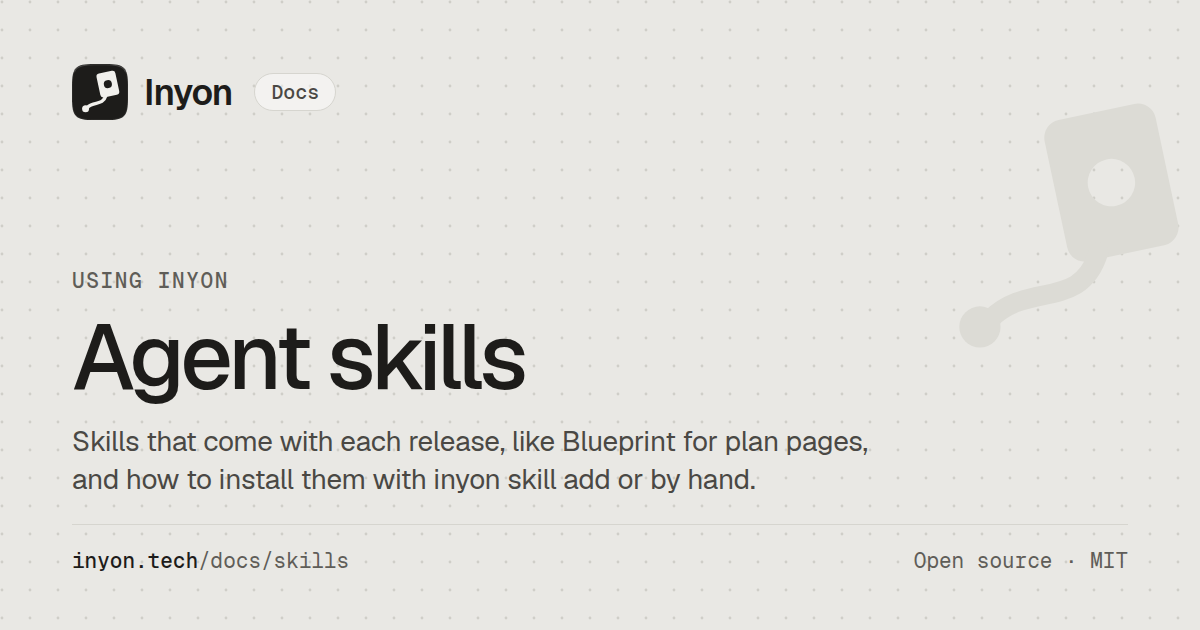
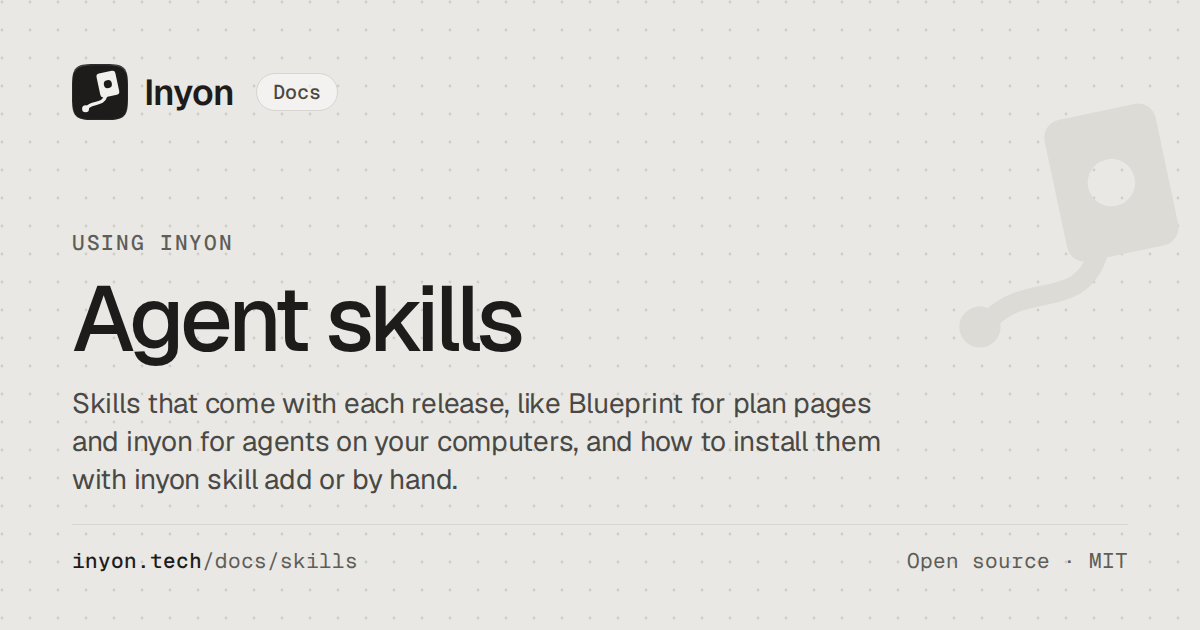
Add inyon docs, an inyon agent skill and status hints (#98)
From the report of an agent on a joined Windows machine (item 5): it couldn't find the setup docs from the command line, so it guessed the setup from `inyon status` and the web app's bundled code.

- `inyon docs` lists every docs page with what it covers; `inyon docs <topic>` prints one as Markdown with its inyon.tech address. A topic is a page's name, the start of one, or words from its title or description. `--json` gives `title`, `description`, `url` and `text`. The pages are `include_str!`'d from site/docs, so they match the installed version and need no network.
- `inyon --help` ends with the docs line. `inyon status` (plain) ends with it too, and on a joined machine adds that its sessions and pages show in the hub's app, with `inyon pages add <folder>`. `status --json` carries them as `docs` and `hints`.
- New `skills/inyon` agent skill: check the role with `inyon status --json`, read the page for the task with `inyon docs` first, show sites with `inyon pages add` and hand over the place in the app, leave tokens to the user, ask before `stop`/`disconnect`/`hub stop` and the like, never print what's in `~/.inyon`. It ships as `inyon-skill-inyon.tar.gz`, and the release check now expects it.
- `site/docs/*.md` gets `eol=lf` so the Windows build reads the same front matter, and the CLI workflow runs when site/docs changes.
[…]

diff --git a/apps/cli/src/docs.rs b/apps/cli/src/docs.rs
@@ -1,0 +1,128 @@
+//! `inyon docs`: the docs at inyon.tech, inside the program, so an agent (or you, offline) can read
+//! how to set things up without a browser. Each page is the Markdown the site is built from.
+
+use serde_json::{json, Value};
+
+use crate::commands::Outcome;
+
+/// Where the docs are online.
+pub const DOCS_URL: &str = "https://inyon.tech/docs/";
+
+/// Every page in site/docs, by its name there. A test checks none is missing.
+pub const PAGES: [(&str, &str); 25] = [
+    ("agents", include_str!("../../../site/docs/agents.md")),
+    ("android", include_str!("../../../site/docs/android.md")),
+    ("browser-copy", include_str!("../../../site/docs/browser-copy.md")),
+    ("cli", include_str!("../../../site/docs/cli.md")),
+    ("companions", include_str!("../../../site/docs/companions.md")),
+    ("computers", include_str!("../../../site/docs/computers.md")),
+    ("configuration", include_str!("../../../site/docs/configuration.md")),
+    ("controls", include_str!("../../../site/docs/controls.md")),
+    ("hub", include_str!("../../../site/docs/hub.md")),
+    ("index", include_str!("../../../site/docs/index.md")),
+    ("install", include_str!("../../../site/docs/install.md")),
+    ("machines", include_str!("../../../site/docs/machines.md")),
+    ("notifications", include_str!("../../../site/docs/notifications.md")),
+    ("overview", include_str!("../../../site/docs/overview.md")),
+    ("pages", include_str!("../../../site/docs/pages.md")),
+    ("quick-start", include_str!("../../../site/docs/quick-start.md")),
+    ("security", include_str!("../../../site/docs/security.md")),
+    ("sessions", include_str!("../../../site/docs/sessions.md")),
+    ("settings", include_str!("../../../site/docs/settings.md")),
+    ("setups", include_str!("../../../site/docs/setups.md")),
+    ("skills", include_str!("../../../site/docs/skills.md")),
+    ("temp-files", include_str!("../../../site/docs/temp-files.md")),
+    ("terminal", include_str!("../../../site/docs/terminal.md")),
+    ("troubleshooting", include_str!("../../../site/docs/troubleshooting.md")),
+    ("windows-app", include_str!("../../../site/docs/windows-app.md")),
+];
+
+/// A page's title, description and body, from its front matter.
+pub fn parse(text: &str) -> (String, String, &str) {
+    let field = |head: &str, k: &str| head.lines().find_map(|l| l.strip_prefix(&format!("{k}: "))).unwrap_or("").trim().to_string();
+    match text.strip_prefix("---\n").and_then(|rest| rest.split_once("\n---\n")) {
+        Some((head, body)) => (field(head, "title"), field(head, "description"), body.trim_start_matches('\n')),
+        None => (String::new(), String::new(), text),
+    }
+}
+
+/// The page a topic names: its name, then a name starting with it, then every word in its title or
+/// description ("hub", "add machine", "pages").
+pub fn find(topic: &str) -> Option<&'static (&'static str, &'static str)> {
+    let t = topic.trim().to_lowercase();
+    let t = t.trim_end_matches(".md");
+    PAGES.iter().find(|(n, _)| *n == t).or_else(|| PAGES.iter().find(|(n, _)| n.starts_with(t))).or_else(|| {
+        let words: Vec<&str> = t.split(|c: char| !c.is_alphanumeric()).filter(|w| w.len() > 1).collect();
+        PAGES.iter().find(|(_, text)| {
+            let (title, desc, _) = parse(text);
+            let hay = format!("{title} {desc}").to_lowercase();
+            !words.is_empty() && words.iter().all(|w| hay.contains(w.trim_end_matches('s')))
+        })
+    })
+}
+
+fn url(name: &str) -> String {
+    if name == "index" {
+        DOCS_URL.to_string()
+    } else {
+        format!("{DOCS_URL}{name}/")
+    }
+}
+
+/// `inyon docs`: every page with what it covers. `inyon docs <topic>`: that page.
+pub fn docs_command(topic: Option<&str>) -> Outcome {
+    let Some(topic) = topic.filter(|t| !t.trim().is_empty()) else {
+        let list: Vec<Value> = PAGES
+            .iter()
+            .map(|(n, text)| {
+                let (title, desc, _) = parse(text);
+                json!({ "topic": n, "title": title, "description": desc, "url": url(n) })
+            })
+            .collect();
+        let width = PAGES.iter().map(|(n, _)| n.len()).max().unwrap_or(0);
+        let mut lines = vec![format!("The docs, also at {DOCS_URL}. Read one with: inyon docs <topic>"), String::new()];
+        lines.extend(PAGES.iter().map(|(n, text)| {
+            let (title, desc, _) = parse(text);
+            format!("  {n:<width$}  {title}: {desc}")
+        }));
+        return Ok(json!({ "pages": list, "message": lines.join("\n") }));
+    };
+    let Some((name, text)) = find(topic) else {
+        return Err(format!("No docs page about \"{topic}\". inyon docs lists them all."));
+    };
+    let (title, desc, body) = parse(text);
+    Ok(
+        json!({ "topic": name, "title": title, "description": desc, "url": url(name), "text": body, "message": format!("# {title}\n\n{desc}\n{}\n\n{}", url(name), body.trim_end()) }),
+    )
+}
+
+#[cfg(test)]
+mod tests {
+    use super::*;
+
+    #[test]
+    fn every_docs_page_is_inside_the_program() {
+        let dir = std::path::Path::new(env!("CARGO_MANIFEST_DIR")).join("../../site/docs");
+        let mut on_disk: Vec<String> = std::fs::read_dir(dir).unwrap().filter_map(|e| e.ok()?.file_name().to_str()?.strip_suffix(".md").map(str::to_owned)).collect();
+        on_disk.sort();
+        assert_eq!(PAGES.iter().map(|(n, _)| n.to_string()).collect::<Vec<_>>(), on_disk, "add the new page to PAGES in docs.rs");
+        for (n, text) in PAGES {
+            let (title, desc, body) = parse(text);
+            assert!(!title.is_empty() && !desc.is_empty() && !body.starts_with("---"), "{n}");
+        }
+    }
+
+    #[test]
+    fn a_topic_finds_its_page_by_name_start_or_words() {
+        let name = |t: &str| find(t).map(|(n, _)| *n);
+        assert_eq!(name("hub"), Some("hub"));
+        assert_eq!(name("Pages.md"), Some("pages"));
+        assert_eq!(name("trouble"), Some("troubleshooting"));
+        assert_eq!(name("add machines"), Some("machines"));
+        assert_eq!(name("temp files"), Some("temp-files"));
+        assert_eq!(name("zzz"), None);
+        let page = docs_command(Some("hub")).unwrap();
+        assert_eq!((page["title"].as_str(), page["url"].as_str()), (Some("Running a hub"), Some("https://inyon.tech/docs/hub/")));
+        assert!(docs_command(None).unwrap()["message"].as_str().unwrap().contains("  pages "));
+    }
+}

diff --git a/apps/cli/src/cli.rs b/apps/cli/src/cli.rs
@@ -10,7 +10,7 @@ use crate::{engine, pages, paths, temp, update};
 
 /// Drive your coding agents from the Inyon app: pair this machine, keep it reachable, keep it up to date.
 #[derive(Parser)]
-#[command(name = "inyon", version, disable_version_flag = true, about, long_about = None)]
+#[command(name = "inyon", version, disable_version_flag = true, about, long_about = None, after_help = "Docs: https://inyon.tech/docs/ (or here: inyon docs <topic>)")]
 struct Cli {
     /// Answer as JSON
     #[arg(long, global = true)]
@@ -110,6 +110,11 @@ enum Command {
     Skill {
         #[command(subcommand)]
         action: SkillAction,
+    },
+    /// Read the docs here, without a browser: list them, or print one page
+    Docs {
+        /// A page's name or a few words from its title (hub, pages, add machines)
+        topic: Vec<String>,
     },
     /// Print the version
     Version,
@@ -396,7 +401,8 @@ pub fn main() {
     }
     let cli = Cli::parse_from(&argv);
     closed_pipe_is_not_a_crash(
-        cli.version || matches!(cli.command, None | Some(Command::Status { .. } | Command::Phones | Command::Logs { .. } | Command::Doctor | Command::Version)),
+        cli.version
+            || matches!(cli.command, None | Some(Command::Status { .. } | Command::Phones | Command::Logs { .. } | Command::Doctor | Command::Version | Command::Docs { .. })),
     );
     let proc = RealProc;
     let sys = Sys::new(&proc);
@@ -419,7 +425,7 @@ pub fn main() {
         None | Some(Command::Status { .. }) => {
             let s = dashboard::gather(&sys, true);
             if json {
-                println!("{}", serde_json::to_string(&s).unwrap_or_default());
+                println!("{}", dashboard::json(&s));
             } else {
                 println!("{}", dashboard::plain(&s));
             }
@@ -520,6 +526,7 @@ pub fn main() {
             json,
         ),
         Some(Command::Version) => commands::finish(commands::version(json), json),
+        Some(Command::Docs { topic }) => commands::finish(crate::docs::docs_command(Some(&topic.join(" "))), json),
         Some(Command::Migrate { background }) => commands::finish(commands::migrate(&sys, background), json),
         Some(Command::Tray { role, pid }) => match Role::parse(&role) {
             Some(r) => {

diff --git a/apps/cli/src/ui/dashboard.rs b/apps/cli/src/ui/dashboard.rs
@@ -505,7 +505,29 @@ pub fn plain(s: &Status) -> String {
     for l in &s.log {
         out.push(l.clone());
     }
+    out.extend(hints(s));
     out.join("\n")
+}
+
+/// What to read next, for a person or an agent working on this computer: where its pages show
+/// when it's joined to a hub, and where the docs are.
+pub fn hints(s: &Status) -> Vec<String> {
+    let mut out = Vec::new();
+    if s.role == "joined" {
+        out.push("Sessions and pages on this machine show in the hub's app. Share a folder of pages with `inyon pages add <folder>` (hub 0.22 or later).".to_string());
+    }
+    out.push(format!("Docs: {} or `inyon docs <topic>`", crate::docs::DOCS_URL));
+    out
+}
+
+/// `inyon status --json`: the status with the docs address and the hints.
+pub fn json(s: &Status) -> serde_json::Value {
+    let mut v = serde_json::to_value(s).unwrap_or_default();
+    if let Some(o) = v.as_object_mut() {
+        o.insert("docs".into(), crate::docs::DOCS_URL.into());
+        o.insert("hints".into(), hints(s).into());
+    }
+    v
 }
 
 /// A rendered buffer as lines, trailing spaces trimmed, for the snapshot tests.
@@ -619,6 +641,19 @@ mod tests {
         let mut t = ratatui::Terminal::new(ratatui::backend::TestBackend::new(100, 30)).unwrap();
         t.draw(|f| render(f, s, Theme::plain())).unwrap();
         buffer_text(t.backend().buffer())
+    }
+
+    #[test]
+    fn status_says_where_the_docs_are_and_where_a_joined_machines_pages_show() {
+        let s = status();
+        assert!(plain(&s).ends_with("Docs: https://inyon.tech/docs/ or `inyon docs <topic>`"), "{}", plain(&s));
+        assert!(!plain(&s).contains("pages add"));
+        let joined = Status { role: "joined".into(), hub: Some("http://100.64.0.1:4747".into()), ..status() };
+        assert!(plain(&joined).contains("`inyon pages add <folder>`"), "{}", plain(&joined));
+        let v = json(&joined);
+        assert_eq!(v["docs"], "https://inyon.tech/docs/");
+        assert_eq!(v["hints"].as_array().unwrap().len(), 2);
+        assert_eq!(v["role"], "joined");
     }
 
     #[test]

diff --git a/apps/cli/src/lib.rs b/apps/cli/src/lib.rs
@@ -5,6 +5,7 @@ pub mod app;
 pub mod cli;
 pub mod commands;
 pub mod desktop;
+pub mod docs;
 pub mod engine;
 pub mod http;
 pub mod hub_cert;

diff --git a/skills/inyon/SKILL.md b/skills/inyon/SKILL.md
@@ -1,0 +1,88 @@
+---
+name: inyon
+description: Work on a computer that runs Inyon, the tmux and coding-agent remote (the `inyon` command). Use it whenever the user mentions Inyon, a hub, a joined or paired machine, the Inyon app or Pages, or asks you to set Inyon up, add a machine or phone, show them a site, find out what this computer is in their setup, or say which address to open; and before you guess anything about Inyon from its files or processes.
+---
+
+# Inyon
+
+Inyon lets someone run coding agents in tmux and follow them from a phone or browser. Every computer
+in their setup runs the `inyon` command, and each one plays one role. Find out which before you do
+anything, then read the page of the docs that covers the task. The docs ship inside the program, so
+they match the version installed.
+
+## Where am I?
+
+```sh
+inyon status --json
+```
+
+| `role` | What this computer is | What you can do here |
+|---|---|---|
+| `hub` | Runs the hub: the web app people sign in to, which reaches every other machine | Add pages, show the setup code, list the machines that joined it (`nodes`) |
+| `joined` | Joined to the hub named in `hub`. It connects out, so the hub shows its sessions | Add pages (the hub shows them from 0.22). The hub's other machines and sessions aren't visible from here |
+| `node` | Paired straight with the Android app over its own link, no hub | Pair another phone with `inyon pair` |
+| `none` | Not set up yet | Tell the user to run `inyon setup`, which asks questions in their terminal |
+
+The same object has `machine` (this computer's id), `jobs` (what runs and its version), `agents` (the
+agents in tmux here), `hints` and `docs`. A note in `note` means something needs attention, such as
+the hub being unreachable.
+
+## Read the docs
+
+```sh
+inyon docs                 # every page with one line on what it covers
+inyon docs machines        # one page as Markdown, with its address on inyon.tech
+inyon docs add machine     # a name, the start of one, or words from its title all work
+```
+
+| For | Topic |
+|---|---|
+| Installing, the first run | `install`, `quick-start` |
+| Which setup to pick: paired, hub or SSH | `setups` |
+| Running a hub, reaching it from a phone | `hub` |
+| Adding a laptop or server to a hub | `machines` |
+| Pairing a computer with the phone | `computers` |
+| Showing a site in the app | `pages` |
+| Every command and flag | `cli` |
+| What each agent supports | `agents` |
+| Something doesn't work | `troubleshooting` |
+
+Give the user the page's inyon.tech address when they'd rather read it themselves.
+
+## Common tasks
+
+**Show the user a site you built** (a plan, a report, mockups): a folder with an `index.html`.
+
+```sh
+inyon pages add <folder> --name "Readable name"
+```
+
+It answers with where the page sits in the app (Pages, then machine, then project). Hand that over,
+not a URL: a link that opens a page is made by the app and lasts 12 hours. On a joined machine `add`
+also says the hub it's joined to shows its pages: that needs the hub and this machine on 0.22 or
+later. With an older hub, tell the user to update it, or put the folder on the hub's computer. Don't
+serve the folder on a public address. The `blueprint` skill builds and publishes plan sites this way.
+
+**Add a computer to a hub.** The hub makes the command: **Machines → Add a machine** in its app gives a
+one-line command with a token for that one machine. Ask the user to run it on the new computer. Never
+make up a token or ask the user to paste one into the chat.
+
+**Pair a phone.** `inyon pair` prints a QR code and a code to type. The user scans it in the app.
+
+**Run a hub.** `inyon hub start` on Linux or macOS. On Windows the hub runs inside WSL.
+
+**Clean up temp files agents left.** `inyon temp` lists them. Once the user agrees, `inyon temp clean
+--older-than 7d --yes` deletes the old ones (without a terminal it deletes nothing unless you pass `--yes`).
+
+## Rules
+
+- Every command takes `--json`. A failure is `{"v":1,"ok":false,"error":"…"}` with exit code 1. Read
+  the error out to the user rather than retrying blindly.
+- Ask before anything that cuts the user off from their own machines: `inyon stop`, `disconnect`,
+  `uninstall`, `forget`, `hub stop`, `hub reset-password`. Don't restart the hub while they're using
+  it.
+- Never print or copy what's in `~/.inyon` (the machine's key and token, `hub.env`, the hub's
+  records). Read state through `inyon status --json`.
+- If your sandbox can't write to `~/.inyon`, the command says so. Give the user the exact line to run
+  in their own terminal.
+- Never type into the user's own tmux sessions to test something. Make a throwaway session.

diff --git a/site/docs/cli.md b/site/docs/cli.md
@@ -33,10 +33,11 @@ If `inyon` isn't found, open a new terminal: the installers put `~/.inyon/bin` o
 | `inyon skill list`, `add`, `remove` | Install the agent skills that come with each release |
 | `inyon pages add`, `ls`, `rm` | Show a site's folder in the app under Pages |
 | `inyon temp`, `files`, `show`, `rm`, `clean` | List, look at and delete the temp files agents leave here |
+| `inyon docs [topic]` | Read these docs in the terminal |
 | `inyon uninstall` | Remove Inyon |
 | `inyon version` | Show the version |
 
-Every command takes `--json` and `-h`/`--help`. `inyon -V` prints the version.
+Every command takes `--json` and `-h`/`--help`. `inyon -V` prints the version. From 0.22 `inyon --help` ends with where the docs are.
 
 ## Status
 
@@ -61,6 +62,8 @@ The dashboard and setup draw in greys that suit the terminal's background. From 
 From 0.20.3 it says what runs in the background and how to stop it. On Windows that's the Inyon app (**Quit Inyon** in the icon's menu, or `inyon stop`); elsewhere `inyon stop` for the link and the hub connection, and `inyon hub stop` for a hub.
 
 `--plain` prints the same as lines of text, and `--json` as one object. Outside a terminal, `inyon` prints the plain form on its own.
+
+From 0.22 the plain form ends with where the docs are, and on a machine joined to a hub, a line saying its sessions and pages show in the hub's app. `--json` carries the same lines as `hints`, and the docs' address as `docs`.
 
 From 0.17.2 the link counts as running when something answers on its port the way the engine does, not only when the process it last recorded is alive, so a stale record never shows a running link as stopped.
 
@@ -284,6 +287,18 @@ This machine doesn't run a hub. The hub it's joined to shows its pages (hub 0.22
 ```
 
 If an agent's sandbox can't write to `~/.inyon`, the command says so. Run the same line in your own terminal.
+
+## Docs
+
+```sh
+inyon docs                   # every page, with what it covers
+inyon docs machines          # one page
+inyon docs add machine       # words from its title work too
+```
+
+From 0.22. Every page of these docs is inside the program, as the Markdown this site is built from, so it matches the version you have and reads with no browser or network. A topic is a page's name, the start of one (`trouble`), or words from its title or description. `--json` gives the page's `title`, `description`, `url` and `text`, or with no topic the list as `pages`. A topic that matches nothing exits with code 1.
+
+It's meant for coding agents as much as for you: the [inyon skill](skills.md#inyon) tells an agent to read the right page before it guesses.
 
 ## Temp files
 

diff --git a/site/docs/skills.md b/site/docs/skills.md
@@ -1,7 +1,7 @@
 ---
 title: Agent skills
 nav: Agent skills
-description: Skills that come with each release, like Blueprint for plan pages, and how to install them with inyon skill add or by hand.
+description: Skills that come with each release, like Blueprint for plan pages and inyon for agents on your computers, and how to install them with inyon skill add or by hand.
 ---
 
 A skill is a folder of instructions and files that a coding agent loads when a task calls for it. From 0.17.7, each Inyon release ships its skills next to the programs, signed the same way. Install them with one command, or download one and unpack it yourself.
@@ -35,6 +35,20 @@ tar -xzf inyon-skill-blueprint.tar.gz -C ~/.claude/skills
 ```
 
 On Windows, `tar` comes with Windows 10 and 11: `tar -xzf inyon-skill-blueprint.tar.gz -C $HOME\.claude\skills`.
+
+## inyon
+
+From 0.22. The `inyon` skill teaches a coding agent how your setup fits together, so it stops guessing from files and processes. It tells the agent to:
+
+- find out what the computer is with `inyon status --json`: a hub, a machine joined to one, paired with the phone, or not set up;
+- read the page that covers the task with [`inyon docs <topic>`](cli.md#docs) before acting;
+- show you a site with `inyon pages add` and hand over where it sits in the app, not a URL;
+- leave tokens to you: a machine is added with the command from the hub's **Machines → Add a machine**, run by you;
+- ask before anything that cuts you off, such as `inyon stop`, `disconnect` or `hub stop`, and never print what's in `~/.inyon`.
+
+```sh
+inyon skill add inyon
+```
 
 ## Blueprint
 
